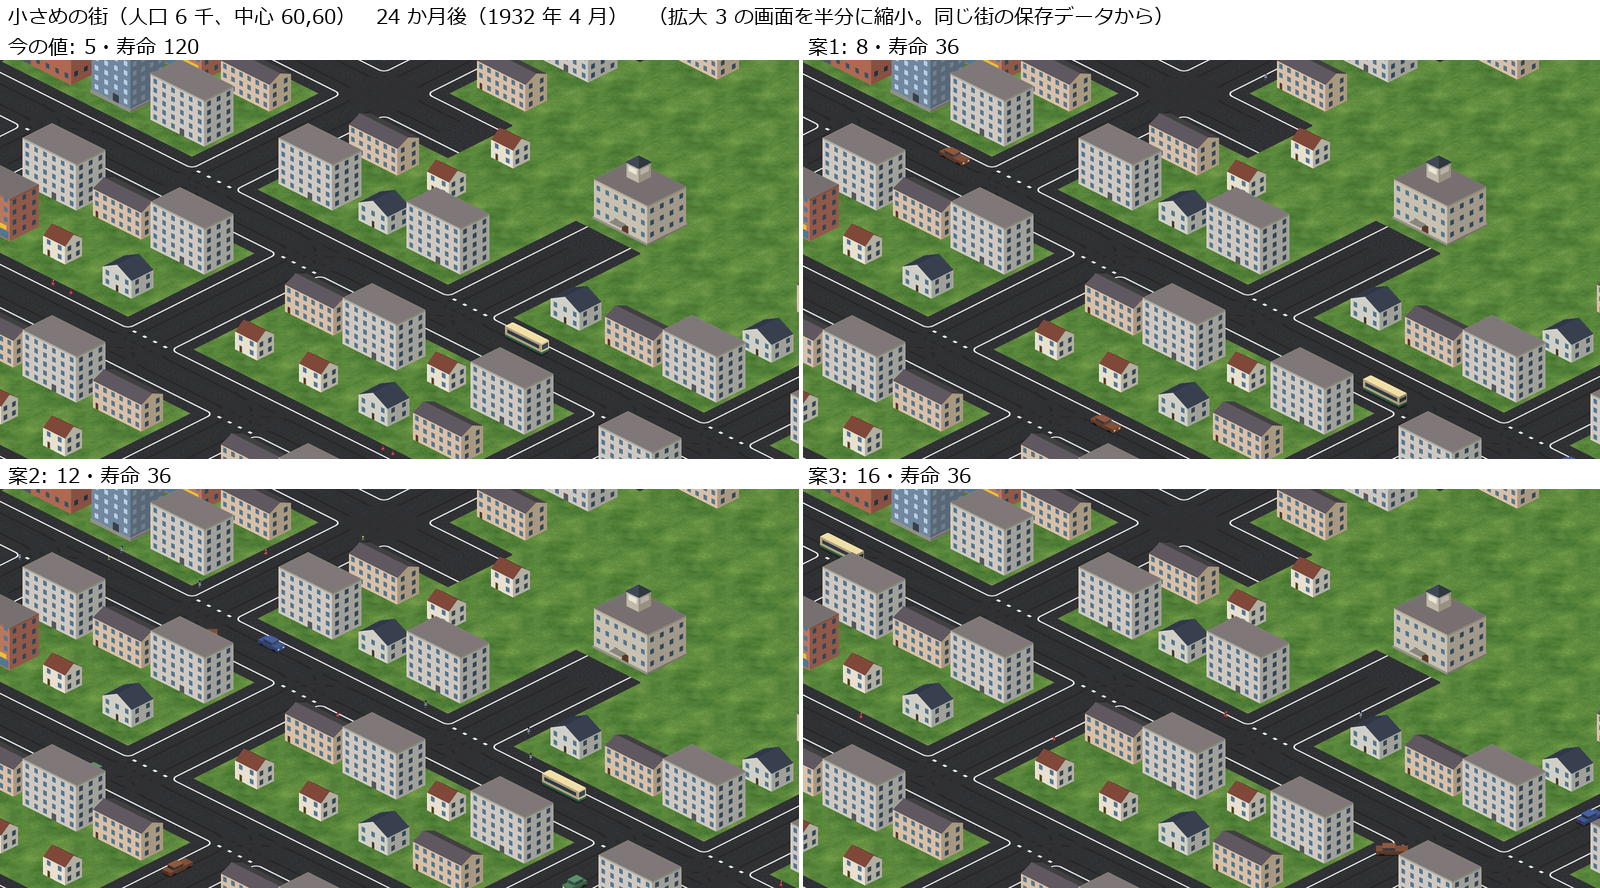
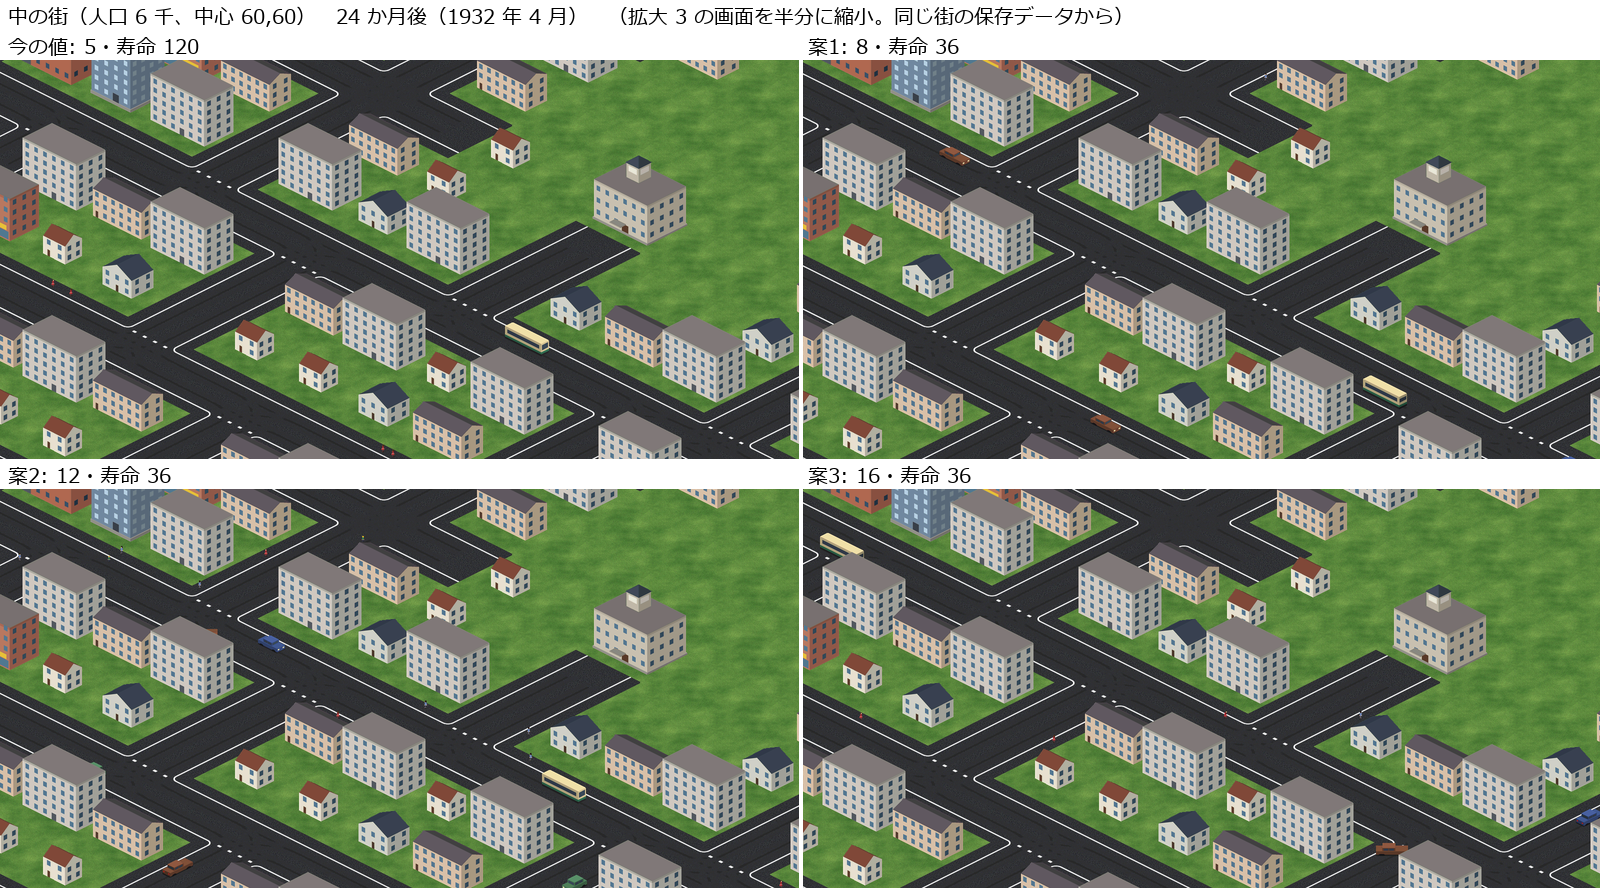
レビューの指摘を直す: 長期の見込みの書き方・式の説明・記録の補足 (#182)

Changed region(s): [[0.0, 0.0, 0.7188, 0.0304]]

diff --git a/docs/records/2026-11-27_citycar-level/grid.py b/docs/records/2026-11-27_citycar-level/grid.py
@@ -1,0 +1,27 @@
+"""measure.py が撮った画面を、値ごとに並べた 1 枚にする（pak256#182）。MIT License。
+
+    python -X utf8 grid.py <PNG のフォルダ> <出力のフォルダ>（Windows の meiryo.ttc を使う）
+"""
+import os, sys
+from PIL import Image, ImageDraw, ImageFont
+
+SRC, OUT = sys.argv[1], sys.argv[2]  # SRC は measure.py が撮った same-town の PNG のフォルダ
+os.makedirs(OUT, exist_ok=True)
+font = ImageFont.truetype(r"C:\Windows\Fonts\meiryo.ttc", 20)
+PANELS = [("L5_D120", "今の値: 5・寿命 120"), ("L8_D36", "案1: 8・寿命 36"), ("L12_D36", "案2: 12・寿命 36"), ("L16_D36", "案3: 16・寿命 36")]
+TOWN = {"big": "大きい街（人口 4 万 6 千、中心 160,160）", "mid": "中の街（人口 6 千、中心 60,60）"}
+WHEN = {24: "24 か月後（1932 年 4 月）", 72: "72 か月後（1936 年 4 月）"}
+for town in ("big", "mid"):
+    for m in (24, 72):
+        sheet = Image.new("RGB", (1600, 2 * (399 + 30) + 30), (255, 255, 255))
+        d = ImageDraw.Draw(sheet)
+        d.text((8, 2), f"{TOWN[town]}　{WHEN[m]}　（拡大 3 の画面を半分に縮小。同じ街の保存データから）", font=font, fill=(0, 0, 0))
+        for i, (tag, label) in enumerate(PANELS):
+            im = Image.open(os.path.join(SRC, f"{tag}_m{m}_{town}.png")).convert("RGB")
+            im = im.crop((0, 60, 1600, 858)).resize((800, 399), Image.LANCZOS)
+            x, y = (i % 2) * 800, 30 + (i // 2) * 429
+            d.text((x + 8, y + 2), label, font=font, fill=(0, 0, 0))
+            sheet.paste(im, (x, y + 30))
+            d.line([(800, 30), (800, sheet.height)], fill=(255, 255, 255), width=4)
+        sheet.save(os.path.join(OUT, f"{town}_m{m}.png"), optimize=True)
+        print(town, m, os.path.getsize(os.path.join(OUT, f"{town}_m{m}.png")))

diff --git a/docs/records/2026-11-27_citycar-level/measure.py b/docs/records/2026-11-27_citycar-level/measure.py
@@ -36,7 +36,7 @@ TOWN = os.environ.get("TOWN182")
 
 
 def patched(sve, simuconf):
-    if TOWN:  # 同じ街の保存データ（mksave182.py）に差し替える
+    if TOWN:  # 同じ街の保存データ（mksave.py）に差し替える
         shutil.copy(TOWN, sve)
         msg = None
     else:

diff --git a/docs/records/2026-11-27_citycar-level.md b/docs/records/2026-11-27_citycar-level.md
@@ -6,7 +6,7 @@
 
 - `flat_512_left_v64`（左側通行）に街を 3 つ置き、`change_size` で人口を足した: 小さい街（約 700 人）、中の街（約 6 千人、中心 60,60）、大きい街（約 4 万 6 千人、中心 160,160）。中と大きい街の道に、それぞれバス 2 台の路線を置いた（[setup.nut](2026-11-27_citycar-level/setup.nut)）。輸送で育てた街ではない。
 - `citycar_level` は `settings.set_traffic_level` で渡して読み返した。保存データは自分の値（5・120）を持ち、pak の `simuconf.tab` より優先される。寿命は作業用の写しの保存データを書き換えた。
-- 速さ 128 で早送りした（1 か月が約 4 秒）。スクリプトは [measure.py](2026-11-27_citycar-level/measure.py)・[mksave.py](2026-11-27_citycar-level/mksave.py)・[stress.py](2026-11-27_citycar-level/stress.py)、月ごとの値は同じフォルダの `*.jsonl`。
+- 速さ 128 で早送りした（1 か月が約 4 秒）。スクリプトは [measure.py](2026-11-27_citycar-level/measure.py)・[mksave.py](2026-11-27_citycar-level/mksave.py)・[stress.py](2026-11-27_citycar-level/stress.py)、月ごとの値は同じフォルダの `*.jsonl`。画像の組み立ては [grid.py](2026-11-27_citycar-level/grid.py)。
 - 各組 1 回ずつ。乱数の幅があるので、数台の違いは読まない。
 
 ## 台数
@@ -22,7 +22,7 @@
 | 12 | 19 | 29 | 56 | 98 | 135 | 164 | 88・56・18 |
 | 16 | 24 | 40 | 76 | 143 | 197 | 234 | 117・95・18 |
 
-- 台数は月ごとにほぼ一定の速さで増え、寿命の 約 240 か月まで積み上がる。式の期待値とほぼ合う（16 で 3 つの街の合計が月 3.5 台の期待に対し、実測は約 2.5 台。小さい街は道が少なく 18 台で増えなくなった）。
+- 台数は月ごとにほぼ一定の速さで増え、寿命の 約 240 か月まで積み上がる。式の期待値とほぼ合う（16 で 3 つの街の合計が月 3.5 台の期待に対し、実測は約 2.5 台。小さい街は 18 台で増えなくなった。道が少ないためと見ている）。
 - 5（前の値）では、中の街にも小さい街にも 1 台も出ない。
 
 ### 寿命 36 と前の値（同じ街の保存データから）
@@ -44,7 +44,7 @@
 
 | `citycar_level`・寿命 | 中の街 | 大きい街 |
 |---|---|---|
-| 5・120（前の値） | 254（100%） | 237（100%） |
+| 5・120（前の値） | 253（100%） | 237（100%） |
 | 8・36 | 239（94%） | 208（88%） |
 | 12・36 | 197（78%） | 166（70%） |
 | 16・36 | 164（65%） | 135（57%） |
@@ -53,7 +53,7 @@
 
 ### 台数を置き足して測る
 
-`citycar_level = 0` にして同じ街に `tool_add_citycar` で車を置き足し、各段で 2 か月置いてから 6 か月の走行距離を測った。道のタイル（半径内）は中の街 149、大きい街 328。
+`citycar_level = 0` にして同じ街に `tool_add_citycar` で車を置き足し、各段で 2 か月置いてから 6 か月の走行距離を測った。道のタイル（半径内）は中の街 149、大きい街 328。この場面は `setup.nut` で作り直した街で（上の同じ街の保存データとは別）、人口は記録していない（同じ手順のほかの組では中の街 5.3〜6.0 千人、大きい街 約 4 万 6 千人）。`stress.jsonl` の setup 行の人口は `change_size` が効く前の値。
 
 | 街あたりの台数 | 中の街のバス | 大きい街のバス |
 |---|---|---|

diff --git a/docs/config.md b/docs/config.md
@@ -61,15 +61,15 @@ AMI の 256 版は、`ami-256-alpha.1` では `ami_road_local`（生活道路・
 | キー | 値 | pak128 | 理由 |
 |---|---|---|---|
 | `citycar_level` | 8 | 5 | 5 では人口 8192 未満の街に 1 台も出ず、大きい街でも月に 0.2 台。8 では 512 人以上の街に出る。 |
-| `default_citycar_life` | 36（約 72 か月） | 120（約 240 か月） | 寿命が長いと台数が積み上がり、10 年を超えると道が車で埋まって路線バスが遅くなる。36（本体の `simuconf.tab` と同じ）なら約 6 年で頭打ちになる。 |
+| `default_citycar_life` | 36（約 72 か月） | 120（約 240 か月） | 寿命が長いと台数が積み上がる（約 8 年の測定で、16・寿命 120 はバスの走行距離が約半分）。120 のまま約 20 年遊ぶと、台数は 36 の約 3 倍になり、バスがさらに遅くなる見込み（式と置き足しの測定からで、そこまでは走らせていない）。36（本体の `simuconf.tab` と同じ）なら約 6 年で頭打ちになる。 |
 
 **台数の式**（OTRP の fork の `simcity.cc` の `stadt_t::new_month`。`simconst.h` の `DESTINATION_CITYCARS` は無効。本家の動きは確かめていない）:
 
 - 月の変わり目に、街ごとに `simrand(f × citycar_level) / 16` 台を出す（`simrand(n)` は 0〜n-1、割り算は切り捨て）。
-- `f` は「輸送されていない人口」の整数の log10。人口 ×（1 − 旅客・郵便・商品のうち届いた割合の大きい方）。輸送が増えるほど車は減る。
+- `f` は「輸送されていない人口」の整数の log10。人口 ×（1 − 届いた割合）で、割合は旅客・郵便・商品のうち高いもの（郵便が旅客以上のときは商品を見ず郵便）。輸送が増えるほど車は減る。
 - 整数の log10 は近似で（`utils/simrandom.cc` の `log10`。2 進の桁数から出す）、`f` は 64〜511 人で 2、512〜8191 人で 3、8192〜65535 人で 4、65536 人からは 5。
 - 出る場所は、街の中の無作為な 1 点の周り 6×6 タイルの、二方向で車のいない道。
-- `citycar_level` は 0〜16。`default_citycar_life` は 1 単位が 2^20 ms で、`bits_per_month = 19` では約 2 か月分。
+- `citycar_level` は 0〜16。`default_citycar_life` は 1 単位が 2^20 ティックで（`vehicle/simroadtraffic.cc` の `private_car_t` の生成）、月の長さに合わせて伸び縮みしない。`bits_per_month = 19` では約 2 か月分。
 
 月に出る台数の期待値（式から。1 街あたり）:
 
